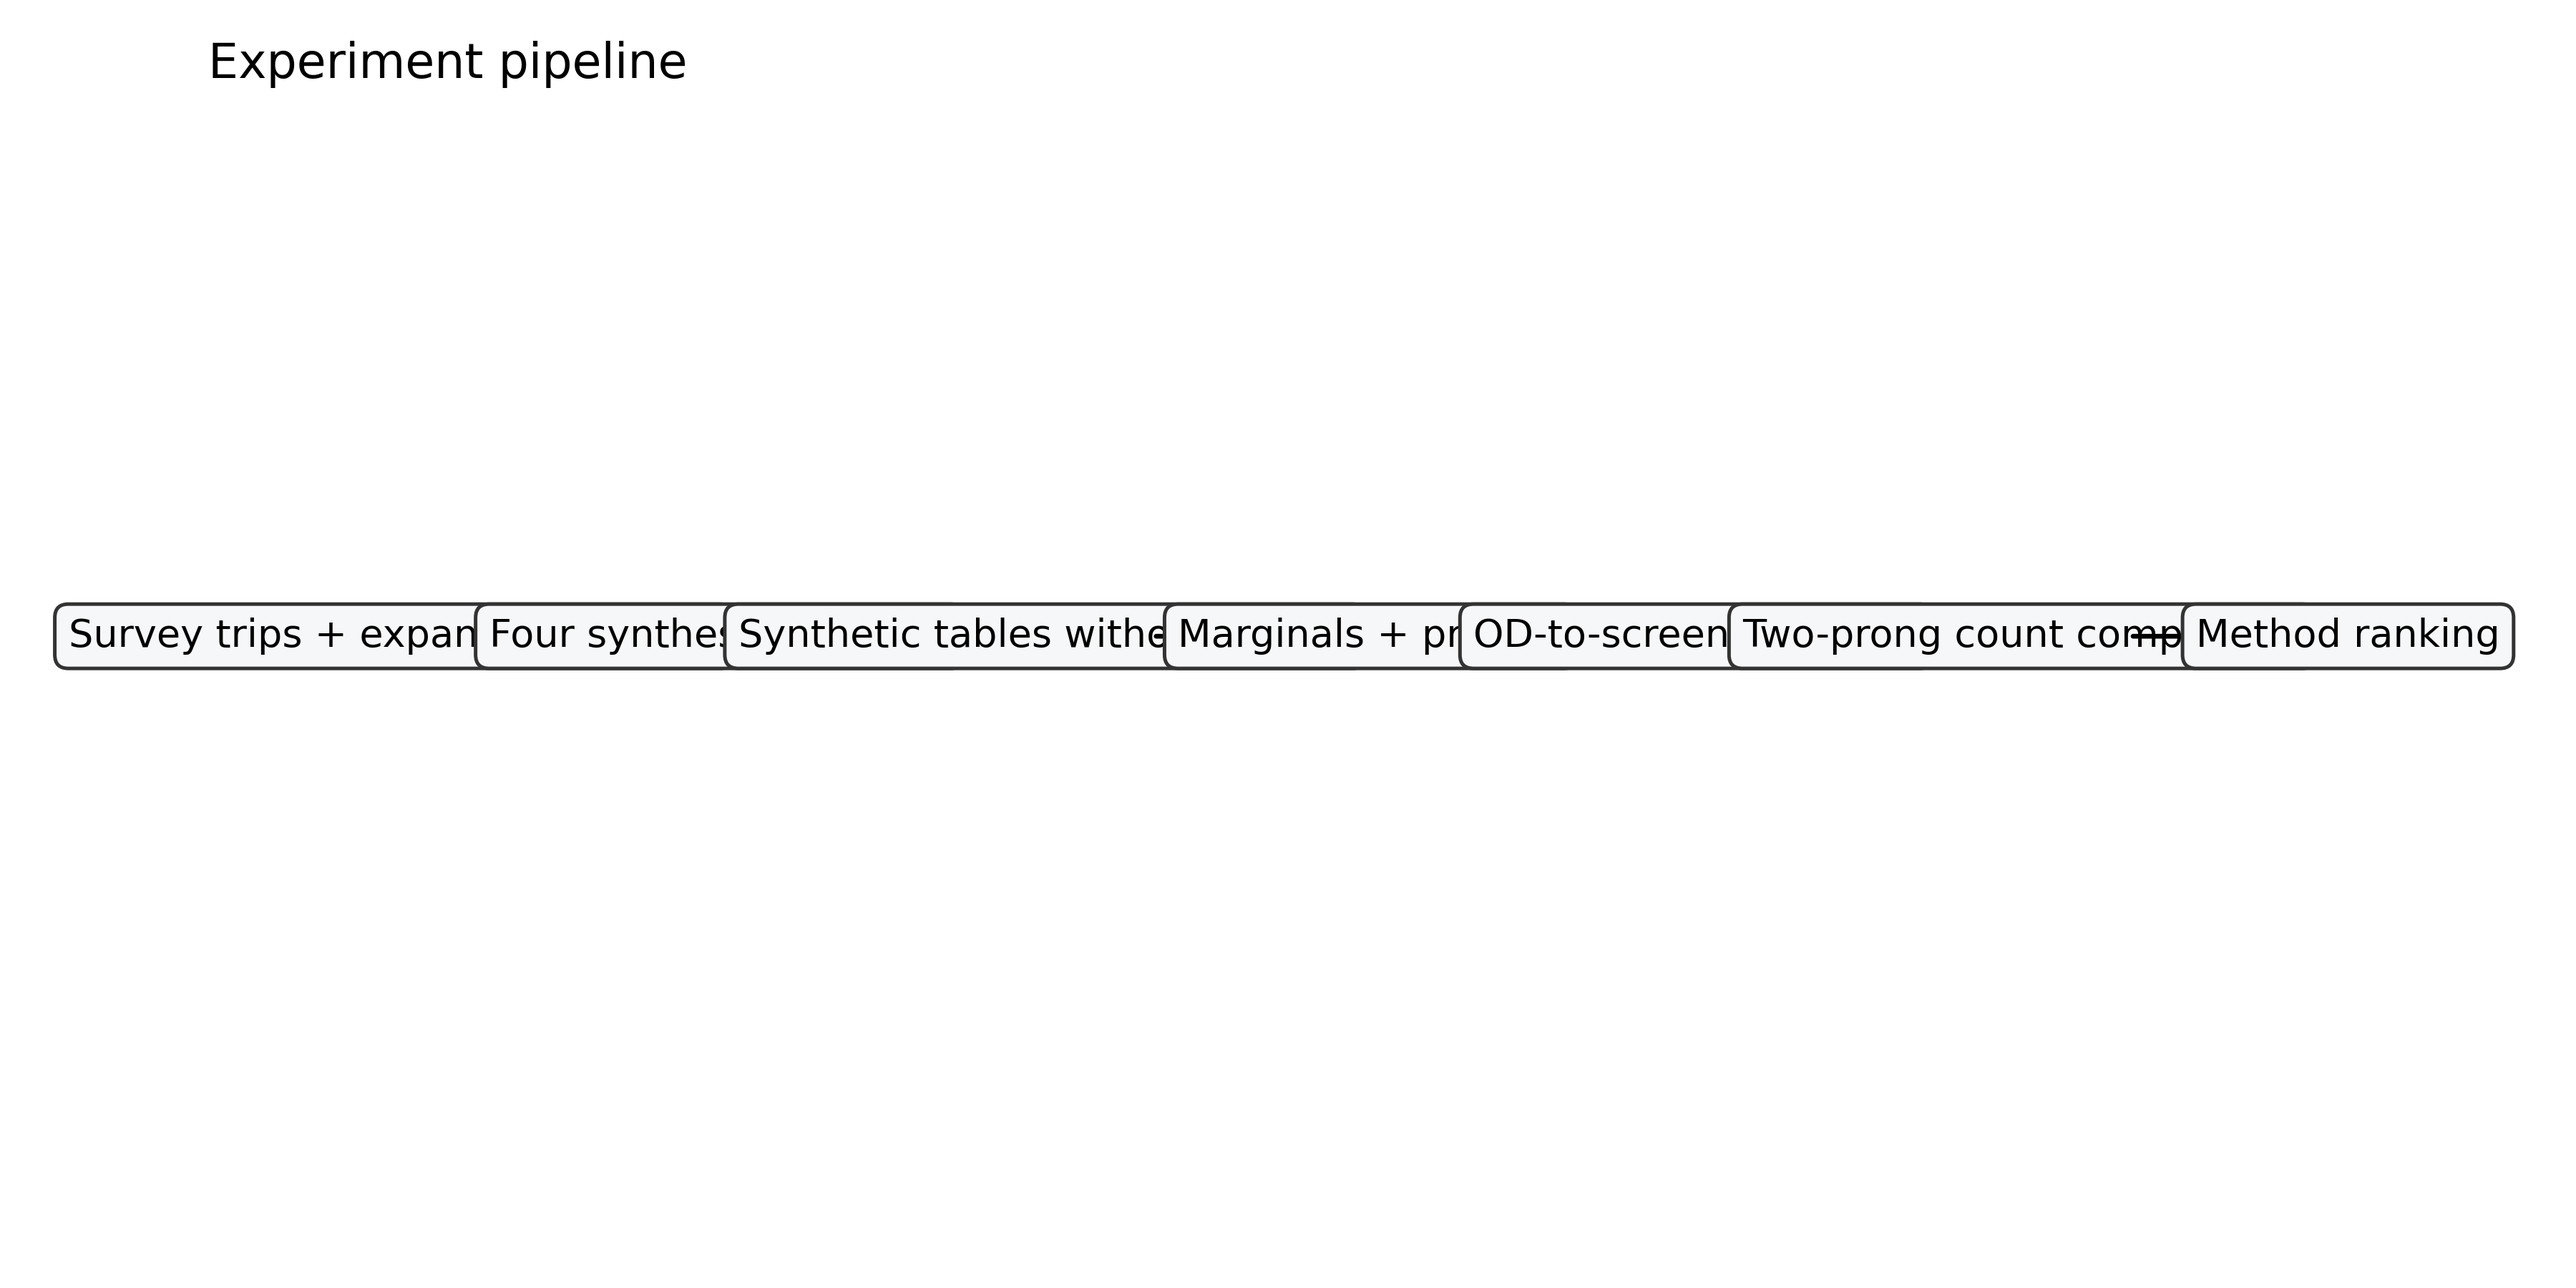
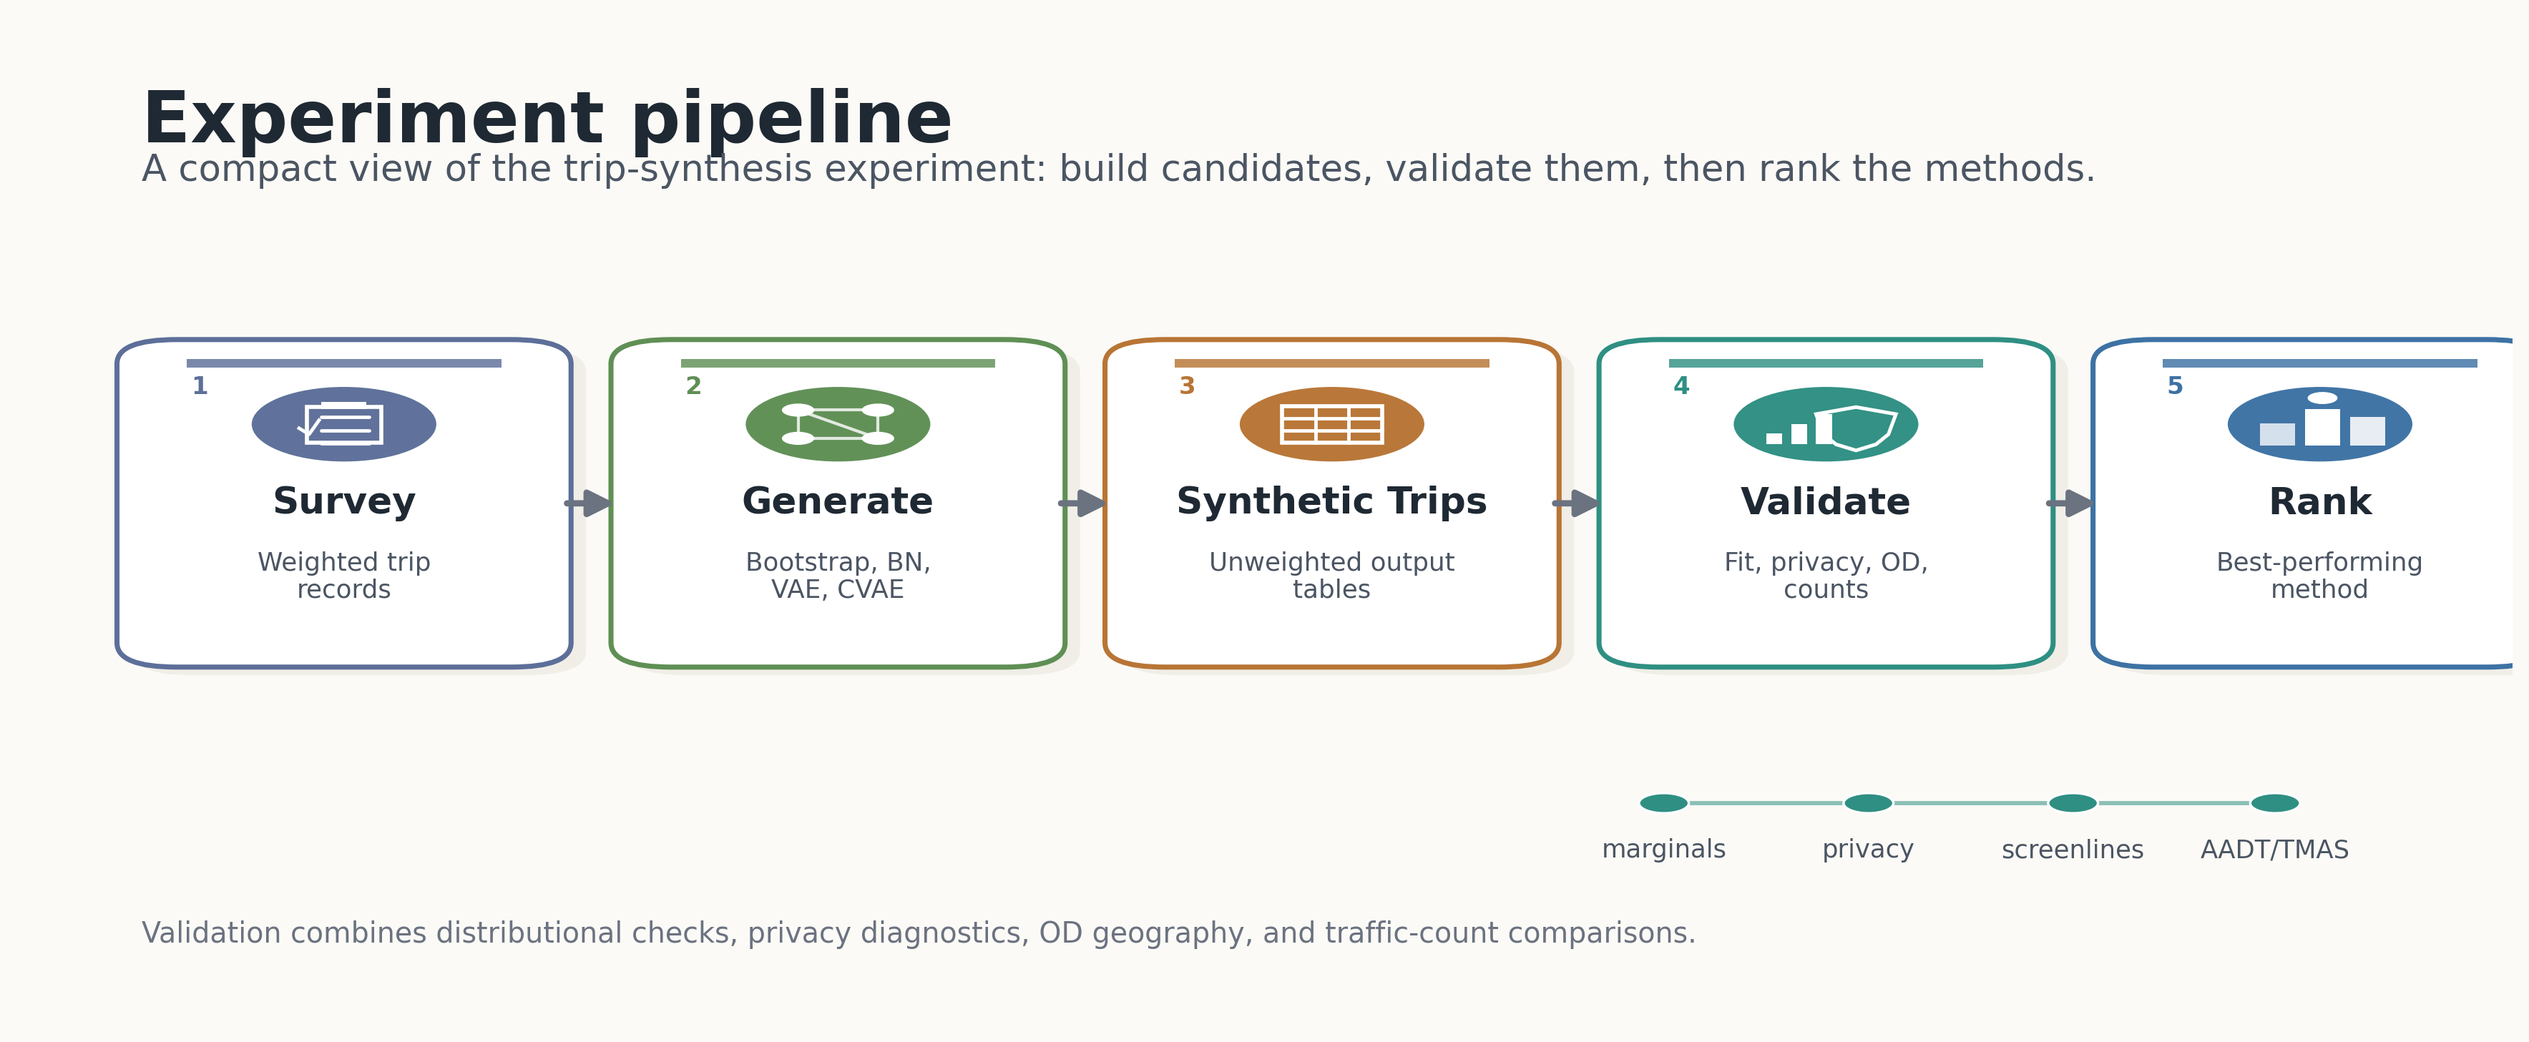
pipeline image

diff --git a/src/trip_synth/viz/poster_figures.py b/src/trip_synth/viz/poster_figures.py
@@ -2,6 +2,7 @@ from __future__ import annotations
 
 import argparse
 import json
+import textwrap
 from pathlib import Path
 from typing import Any
 
@@ -12,7 +13,7 @@ import matplotlib.pyplot as plt
 import numpy as np
 import pandas as pd
 from matplotlib.collections import LineCollection
-from matplotlib.patches import FancyArrowPatch
+from matplotlib.patches import Circle, Ellipse, FancyArrowPatch, FancyBboxPatch, Polygon, Rectangle
 
 from trip_synth.utils.io import ensure_dir, read_json
 
@@ -73,6 +74,217 @@ def _save_flow(path: Path, title: str, labels: list[str], vertical: bool = False
     plt.savefig(path, dpi=300)
     plt.close()
 
+
+def _draw_pipeline_icon(ax: plt.Axes, kind: str, center: tuple[float, float], color: str) -> None:
+    cx, cy = center
+    r = 0.037
+    white = "#ffffff"
+    ax.add_patch(Circle((cx, cy), r, facecolor=color, edgecolor="none", alpha=0.98, zorder=7))
+
+    if kind == "survey":
+        ax.add_patch(Rectangle((cx - 0.015, cy - 0.018), 0.030, 0.035, facecolor="none", edgecolor=white, linewidth=1.35, zorder=8))
+        ax.add_patch(Rectangle((cx - 0.009, cy + 0.015), 0.018, 0.007, facecolor=white, edgecolor=white, linewidth=0, zorder=9))
+        for y in [cy + 0.007, cy - 0.006, cy - 0.019]:
+            ax.plot([cx - 0.009, cx + 0.010], [y, y], color=white, linewidth=1.15, solid_capstyle="round", zorder=9)
+        ax.plot([cx - 0.018, cx - 0.014, cx - 0.010], [cy - 0.004, cy - 0.010, cy + 0.004], color=white, linewidth=1.15, zorder=9)
+    elif kind == "methods":
+        nodes = [
+            (cx - 0.016, cy + 0.014),
+            (cx + 0.016, cy + 0.014),
+            (cx - 0.016, cy - 0.014),
+            (cx + 0.016, cy - 0.014),
+        ]
+        for start, end in [(nodes[0], nodes[1]), (nodes[0], nodes[2]), (nodes[1], nodes[3]), (nodes[2], nodes[3]), (nodes[0], nodes[3])]:
+            ax.plot([start[0], end[0]], [start[1], end[1]], color=white, linewidth=1.0, alpha=0.82, zorder=8)
+        for node in nodes:
+            ax.add_patch(Circle(node, 0.0065, facecolor=white, edgecolor=white, linewidth=0, zorder=9))
+    elif kind == "table":
+        ax.add_patch(Rectangle((cx - 0.020, cy - 0.018), 0.040, 0.036, facecolor="none", edgecolor=white, linewidth=1.35, zorder=8))
+        ax.plot([cx - 0.020, cx + 0.020], [cy + 0.006, cy + 0.006], color=white, linewidth=1.15, zorder=9)
+        ax.plot([cx - 0.020, cx + 0.020], [cy - 0.006, cy - 0.006], color=white, linewidth=1.15, zorder=9)
+        for x in [cx - 0.0067, cx + 0.0067]:
+            ax.plot([x, x], [cy - 0.018, cy + 0.018], color=white, linewidth=1.15, zorder=9)
+    elif kind == "diagnostics":
+        bars = [0.011, 0.020, 0.030]
+        for idx, height in enumerate(bars):
+            ax.add_patch(Rectangle((cx - 0.024 + idx * 0.010, cy - 0.020), 0.0065, height, facecolor=white, edgecolor=white, linewidth=0, zorder=9))
+        shield = [
+            (cx + 0.012, cy + 0.017),
+            (cx + 0.028, cy + 0.010),
+            (cx + 0.025, cy - 0.010),
+            (cx + 0.020, cy - 0.020),
+            (cx + 0.012, cy - 0.026),
+            (cx + 0.004, cy - 0.020),
+            (cx - 0.001, cy - 0.010),
+            (cx - 0.004, cy + 0.010),
+        ]
+        ax.add_patch(Polygon(shield, closed=True, facecolor="none", edgecolor=white, linewidth=1.2, zorder=9))
+    elif kind == "screenline":
+        ax.plot([cx - 0.023, cx + 0.024], [cy - 0.018, cy + 0.016], color=white, linewidth=1.45, solid_capstyle="round", zorder=9)
+        ax.plot([cx + 0.002, cx + 0.002], [cy - 0.025, cy + 0.025], color=white, linewidth=1.25, linestyle=(0, (2, 2)), zorder=9)
+        ax.add_patch(Circle((cx - 0.024, cy - 0.019), 0.006, facecolor=white, edgecolor=white, linewidth=0, zorder=10))
+        ax.add_patch(Circle((cx + 0.024, cy + 0.016), 0.006, facecolor=white, edgecolor=white, linewidth=0, zorder=10))
+    elif kind == "counts":
+        for offset, heights in [(-0.014, [0.016, 0.030]), (0.012, [0.024, 0.019])]:
+            ax.add_patch(Rectangle((cx + offset - 0.006, cy - 0.020), 0.007, heights[0], facecolor=white, edgecolor=white, linewidth=0, zorder=9))
+            ax.add_patch(Rectangle((cx + offset + 0.004, cy - 0.020), 0.007, heights[1], facecolor=white, edgecolor=white, linewidth=0, alpha=0.72, zorder=9))
+        ax.plot([cx - 0.026, cx + 0.028], [cy - 0.020, cy - 0.020], color=white, linewidth=1.15, zorder=9)
+        ax.add_patch(Ellipse((cx + 0.020, cy + 0.016), 0.020, 0.013, angle=0, facecolor="none", edgecolor=white, linewidth=1.1, zorder=9))
+        ax.plot([cx + 0.027, cx + 0.034], [cy + 0.009, cy + 0.002], color=white, linewidth=1.1, zorder=9)
+    elif kind == "rank":
+        ax.add_patch(Rectangle((cx - 0.024, cy - 0.021), 0.014, 0.022, facecolor=white, edgecolor=white, linewidth=0, alpha=0.78, zorder=9))
+        ax.add_patch(Rectangle((cx - 0.006, cy - 0.021), 0.014, 0.036, facecolor=white, edgecolor=white, linewidth=0, zorder=9))
+        ax.add_patch(Rectangle((cx + 0.012, cy - 0.021), 0.014, 0.028, facecolor=white, edgecolor=white, linewidth=0, alpha=0.88, zorder=9))
+        ax.add_patch(Circle((cx + 0.001, cy + 0.026), 0.006, facecolor=white, edgecolor=white, linewidth=0, zorder=9))
+
+
+def _draw_pipeline_stage(
+    ax: plt.Axes,
+    xy: tuple[float, float],
+    wh: tuple[float, float],
+    index: int,
+    title: str,
+    body: str,
+    icon: str,
+    color: str,
+) -> None:
+    x, y = xy
+    w, h = wh
+    ax.add_patch(
+        FancyBboxPatch(
+            (x + 0.006, y - 0.008),
+            w,
+            h,
+            boxstyle="round,pad=0.010,rounding_size=0.024",
+            linewidth=0,
+            facecolor="#d7d0c3",
+            alpha=0.28,
+            zorder=1,
+        )
+    )
+    ax.add_patch(
+        FancyBboxPatch(
+            (x, y),
+            w,
+            h,
+            boxstyle="round,pad=0.010,rounding_size=0.024",
+            linewidth=1.7,
+            edgecolor=color,
+            facecolor="#ffffff",
+            zorder=2,
+        )
+    )
+    ax.add_patch(Rectangle((x + 0.018, y + h - 0.018), w - 0.036, 0.009, facecolor=color, edgecolor="none", alpha=0.82, zorder=4))
+    _draw_pipeline_icon(ax, icon, (x + w / 2, y + h - 0.074), color)
+    ax.text(
+        x + w / 2,
+        y + h - 0.135,
+        title,
+        ha="center",
+        va="top",
+        fontsize=12.4,
+        fontweight="bold",
+        color="#1f2933",
+        zorder=6,
+    )
+    ax.text(
+        x + w / 2,
+        y + 0.054,
+        "\n".join(textwrap.wrap(body, width=17, break_long_words=False)),
+        ha="center",
+        va="bottom",
+        fontsize=8.6,
+        color="#4b5563",
+        linespacing=1.12,
+        zorder=6,
+    )
+    ax.text(
+        x + 0.023,
+        y + h - 0.037,
+        f"{index}",
+        ha="center",
+        va="center",
+        fontsize=8.2,
+        fontweight="bold",
+        color=color,
+        zorder=6,
+    )
+
+def _add_pipeline_arrow(ax: plt.Axes, start: tuple[float, float], end: tuple[float, float], rad: float = 0.0) -> None:
+    ax.add_patch(
+        FancyArrowPatch(
+            start,
+            end,
+            arrowstyle="-|>",
+            mutation_scale=18,
+            linewidth=2.1,
+            color="#6b7280",
+            connectionstyle=f"arc3,rad={rad}",
+            shrinkA=7,
+            shrinkB=7,
+            zorder=5,
+        )
+    )
+
+
+def _make_experiment_pipeline(path: Path) -> None:
+    fig, ax = plt.subplots(figsize=(15.0, 6.1), constrained_layout=False)
+    fig.patch.set_facecolor("#fbfaf6")
+    ax.set_facecolor("#fbfaf6")
+    ax.set_xlim(0, 1)
+    ax.set_ylim(0, 1)
+    ax.axis("off")
+
+    ax.text(0.050, 0.930, "Experiment pipeline", ha="left", va="top", fontsize=24, fontweight="bold", color="#1f2933")
+    ax.text(
+        0.050,
+        0.865,
+        "A compact view of the trip-synthesis experiment: build candidates, validate them, then rank the methods.",
+        ha="left",
+        va="top",
+        fontsize=12.3,
+        color="#4b5563",
+    )
+
+    stages = [
+        ("Survey", "Weighted trip records", "survey", "#5d6f99"),
+        ("Generate", "Bootstrap, BN, VAE, CVAE", "methods", "#5f8f55"),
+        ("Synthetic Trips", "Unweighted output tables", "table", "#b87535"),
+        ("Validate", "Fit, privacy, OD, counts", "diagnostics", "#2f8f83"),
+        ("Rank", "Best-performing method", "rank", "#3d72a4"),
+    ]
+    box_w = 0.162
+    box_h = 0.305
+    y = 0.365
+    xs = [0.050, 0.248, 0.446, 0.644, 0.842]
+    positions = [(x, y) for x in xs]
+
+    for idx, ((title, body, icon, color), pos) in enumerate(zip(stages, positions), start=1):
+        _draw_pipeline_stage(ax, pos, (box_w, box_h), idx, title, body, icon, color)
+
+    y_mid = y + box_h / 2
+    for left, right in zip(positions[:-1], positions[1:]):
+        _add_pipeline_arrow(ax, (left[0] + box_w, y_mid), (right[0], y_mid))
+
+    detail_y = 0.220
+    validation_color = "#2f8f83"
+    ax.plot([0.660, 0.905], [detail_y, detail_y], color=validation_color, linewidth=1.4, alpha=0.55, zorder=3)
+    for x, label in [(0.660, "marginals"), (0.742, "privacy"), (0.824, "screenlines"), (0.905, "AADT/TMAS")]:
+        ax.add_patch(Circle((x, detail_y), 0.010, facecolor=validation_color, edgecolor="white", linewidth=0.8, zorder=5))
+        ax.text(x, detail_y - 0.035, label, ha="center", va="top", fontsize=8.5, color="#4b5563")
+
+    ax.text(
+        0.050,
+        0.075,
+        "Validation combines distributional checks, privacy diagnostics, OD geography, and traffic-count comparisons.",
+        ha="left",
+        va="bottom",
+        fontsize=9.5,
+        color="#6b7280",
+    )
+
+    fig.savefig(path, dpi=300, facecolor=fig.get_facecolor(), bbox_inches="tight", pad_inches=0.08)
+    plt.close(fig)
 
 def _bar(path: Path, title: str, labels: list[str], values: list[float], ylabel: str) -> None:
     plt.figure(figsize=(9, 5.5))
@@ -2539,19 +2751,7 @@ def make_poster_figures(run_dir: str | Path, methods: list[str] | None = None) -
     created.append(p)
 
     p = poster / "02_experiment_pipeline.png"
-    _save_flow(
-        p,
-        "Experiment pipeline",
-        [
-            "Survey trips + expansion weights",
-            "Four synthesis methods",
-            "Synthetic tables without weight",
-            "Marginals + privacy",
-            "OD-to-screenline proxy",
-            "Two-prong count comparison",
-            "Method ranking",
-        ],
-    )
+    _make_experiment_pipeline(p)
     created.append(p)
 
     hparam = _load_table(run_dir, "hparam_results.csv")
